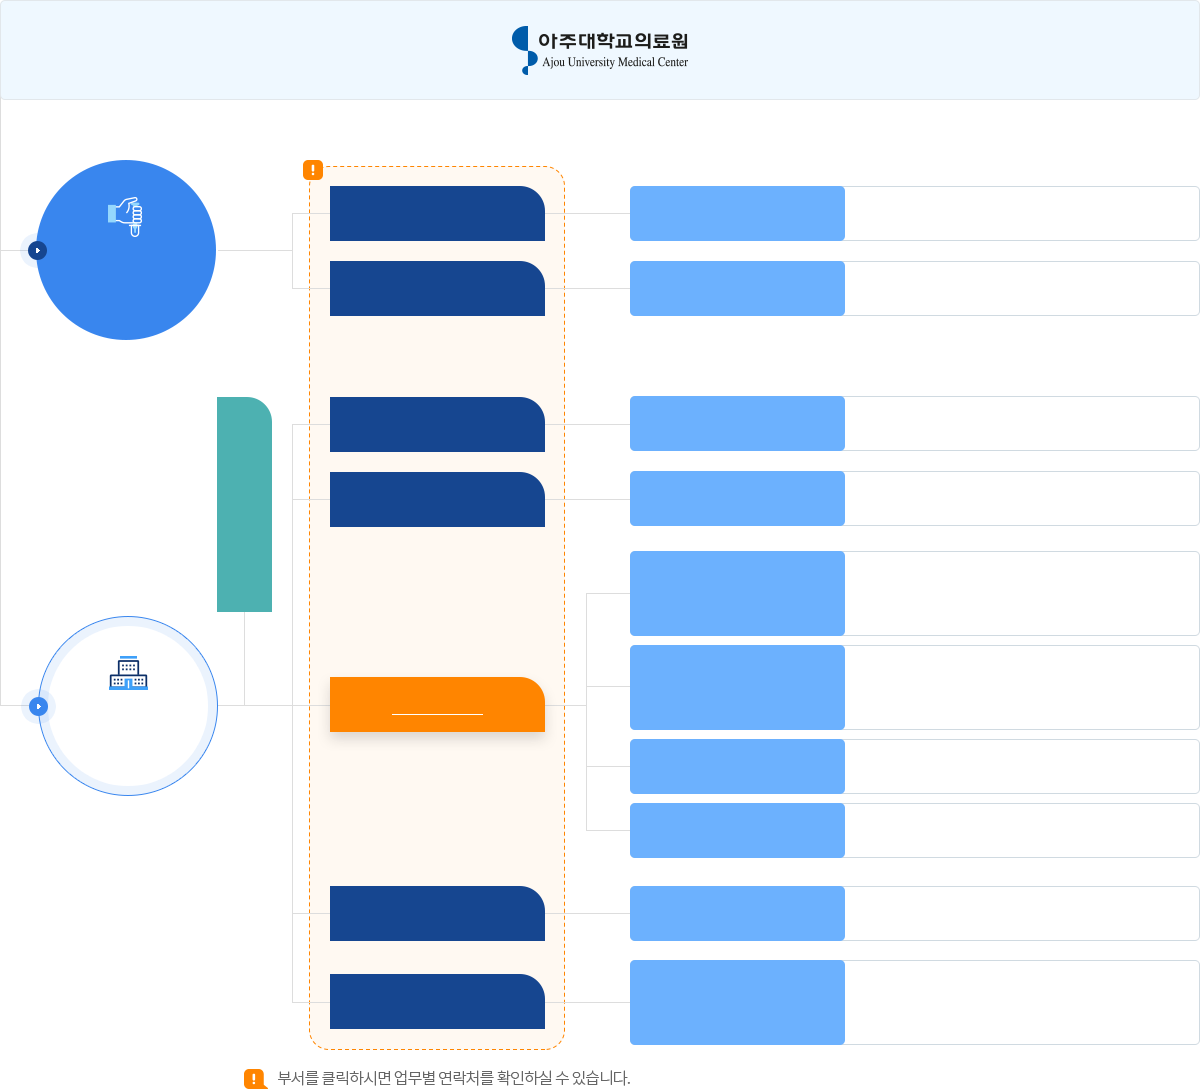
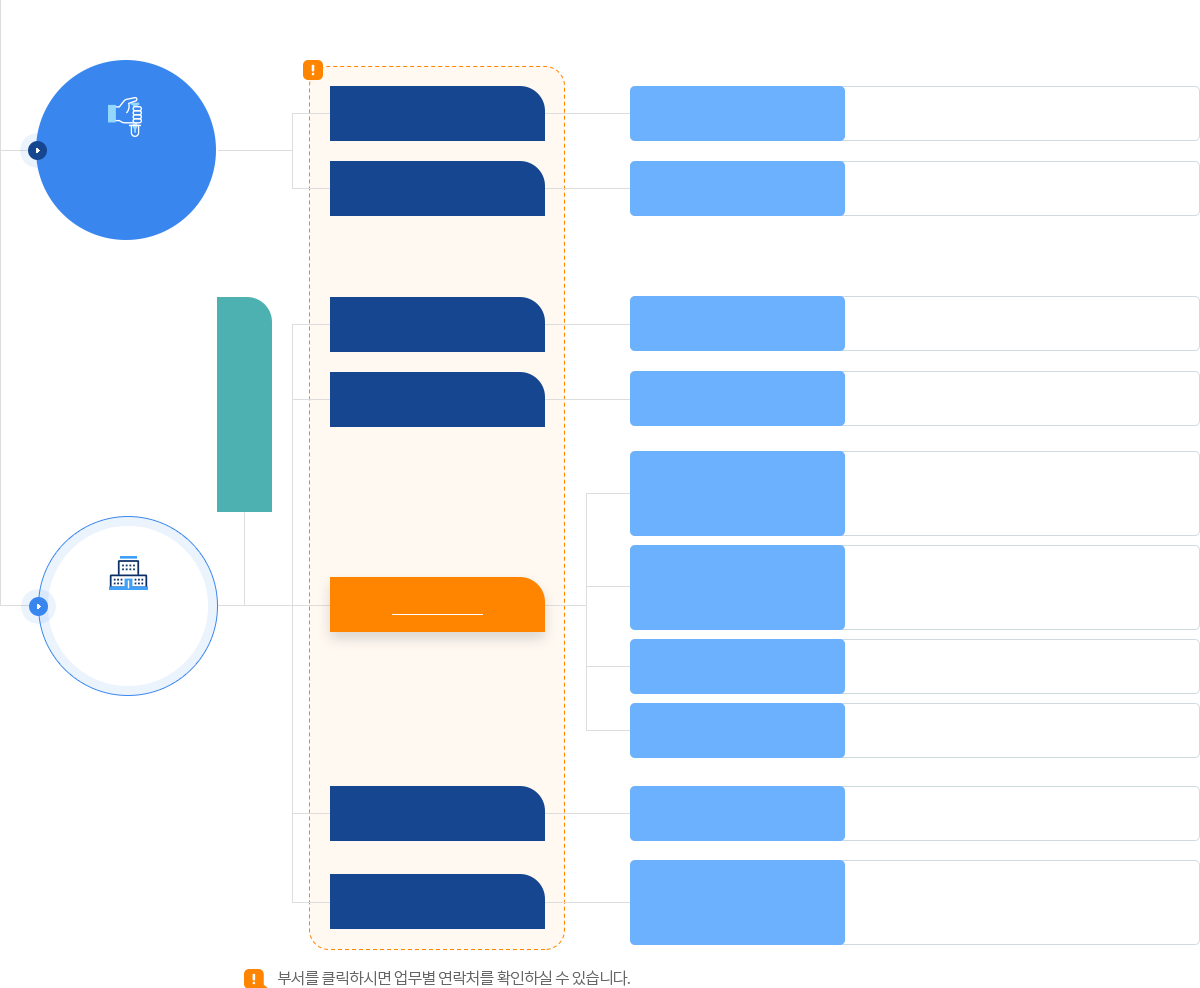
저장

diff --git a/임상시험센터/sub01_05.html b/임상시험센터/sub01_05.html
@@ -108,7 +108,7 @@
                             </ul>
                         </li>
                         <li class="lnb_this">
-                            <a href="javascript:void(0);" class="depth1"><span>성과실적</span></a>
+                            <a href="javascript:void(0);" class="depth1"><span>조직도 및 연락처</span></a>
                             <ul class="lnb_depth2_list" style="display: none">
                                 <li><a href="sub01_01.html">인사말</a></li>
                                 <li><a href="sub01_02.html">비전&미션</a></li>
@@ -131,7 +131,7 @@
                     <div class="in_w">
                         <div class="h2_w">
                             <h2>
-                                <span>성과실적</span>
+                                <span>조직도 및 연락처</span>
                             </h2>
                             <!-- <p class="h2_x"></p> -->
                         </div>
@@ -150,36 +150,35 @@
                         <!-- exp. 좌우 패딩 -->
                         <div class="in_w">
                             <div class="ctrial_wrap2">
-                                <div class="ctrial_con_wrap">
-                                    <h3 class="con_tit">임상시험 승인 건수</h3>
-                                    <div class="ctrial_chart_wrap">
-                                        <div class="chart_label">
-                                            <ul>
-                                                <li><i class="label_color1"></i> SIT</li>
-                                                <li><i class="label_color2"></i> IIT</li>
+                                <div class="ctrial_organ_map">
+                                    <p class="corgan_head">
+                                        <img src="common/images/logo_ajou.png" alt="">
+                                    </p>
+                                    <ul class="corgan_dep1">
+                                        <li>
+                                            <p class="type2"><img src="common/images/sub01_04_icon01.png" alt="연구아이콘">첨단의학<br/>연구원 <i class="icon_arrow_circle_right2 line-left"></i></p>
+                                            <ul class="corgan_dep2">
+                                                <li><p>연구 행정팀 <span class="corgan_tel">02-222-2222</span></p>
+                                                    <ul class="corgan_dep3">
+                                                        <li><p class="dep3_tit">연구지원 연구진흥</p><p class="dep3_desc">임상연구계약 연구비 중앙관리</p></li>
+                                                    </ul>
+                                                </li>
+                                                <li><p>의료기술 사업팀 <span class="corgan_tel">02-222-2222</span></p>
+                                                    <ul class="corgan_dep3">
+                                                        <li><p class="dep3_tit">연구지원 연구진흥</p><p class="dep3_desc">임상연구계약 연구비 중앙관리</p></li>
+                                                    </ul>
+                                                </li>
                                             </ul>
-                                        </div>
-                                        <div class="ctrial_chart_box">
-                                            <img src="common/images/sub01_04_chart01.png" alt="2017-SIT 119, IIT 16/ 2018-SIT 138, IIT 21/ 2019-SIT 139, IIT 17/ 2020-SIT 114, IIT 19/ 2021-SIT 143, IIT 23">
-                                        </div>
-                                    </div>
+                                        </li>
+                                        <li>
+                                            <p><img src="common/images/sub01_04_icon02.png">아주대학교<br/>병원</p>
+                                            <i class="icon_arrow_circle_right1 line-left"></i>
+                                        </li>
+                                    </ul>
                                 </div>
                                 <div class="ctrial_con_wrap">
-                                    <h3 class="con_tit">임상시험 승인 건수</h3>
-                                    <div class="ctrial_chart_wrap">
-                                        <div class="chart_label">
-                                            <ul>
-                                                <li><i class="label_color0"></i> 1상</li>
-                                                <li><i class="label_color1"></i> 2상</li>
-                                                <li><i class="label_color2"></i> 3상</li>
-                                                <li><i class="label_color3"></i> 4상</li>
-                                                <li><i class="label_color4"></i> 기타</li>
-                                            </ul>
-                                        </div>
-                                        <div class="ctrial_chart_box">
-                                            <img src="common/images/sub01_04_chart02.png" alt="2017-1상 2, 2상 22, 3상 42, 4상 8, 기타 60/ 2018-1상 4, 2상 14, 3상 49, 4상 13, 기타 79/ 2019-1상 4, 2상 26, 3상 52, 4상 5, 기타 69/ 2020-1상 11, 2상 22, 3상 38, 4상 9, 기타 53/ 2021-1상 5, 2상 20, 3상 46, 4상 8, 기타 78">
-                                        </div>
-                                    </div>
+                                    <h3 class="con_tit">업무별 연락처</h3>
+
                                 </div>
                             </div>
                         </div>

diff --git a/임상시험센터/common/css/sub_crinic_trial.css b/임상시험센터/common/css/sub_crinic_trial.css
@@ -18,7 +18,19 @@
 .icon_arrow_circle_down2 { background-color: #4db1b1; box-shadow: 0 0 0 8px rgba(77,177,177,0.1); }
 [class*=icon_arrow_circle_down].line-top { position: relative; }
 [class*=icon_arrow_circle_down].line-top:after { content:''; display: block; position: absolute; background: #dddddd; height: 87px; width: 1px; bottom:100%; left: 50%; margin-left: -1px;}
+[class*=icon_arrow_circle_right] {display: inline-block; width: 19px; height: 19px; background: #3986ee url(../images/icon_arrow_right1.png) no-repeat  8px center; border-radius: 50%; box-shadow: 0 0 0 8px rgba(57,134,238,0.1);}
+[class*=icon_arrow_circle_right].line-left { position: relative; }
+[class*=icon_arrow_circle_right].line-left:after{ content:''; display: block; position: absolute; background: #dddddd; height: 1px; width: 28px; right:100%; top: 50%; margin-top: -1px;}
+.icon_arrow_circle_right1 { background-color: #3986ee; }
+.icon_arrow_circle_right2 { background-color: #164690; box-shadow: 0 0 0 8px rgba(77,177,177,0.1); }
 
+
+.ctrial_con_wrap ~ .ctrial_con_wrap { 
+  margin-top: 4rem; 
+ }
+.ctrial_con_wrap h3.con_tit { 
+  font-size: 1.75rem; font-weight: 600; background: url(../images/h3_icon.png) no-repeat left 0.5rem; padding-left: 2.3rem; margin-bottom: 1.5rem; 
+}
 .ctrial_intro_wrap .inner_flex {
   border-bottom: 2px solid #38496b;
   margin-bottom: 3rem;
@@ -344,6 +356,164 @@
 .ctrial_history_box .history_item_list > li ~ li  { 
   margin-top: 0.4rem; 
 }
+.ctrial_chart_wrap{ 
+  position: relative; 
+}
+.ctrial_chart_wrap .chart_label { 
+  position: absolute;
+  right:0;
+  top:-3.5rem;
+  color: #444444;
+}
+.ctrial_chart_wrap .chart_label li { 
+  margin-left: 15px;;
+}
+.ctrial_chart_wrap .chart_label i { 
+  display: inline-block;
+  border-radius: 4px; width: 30px;
+  height: 16px;
+  background: #96a3bd;
+  vertical-align: middle;
+  margin-right: 5px;
+}
+.ctrial_chart_wrap .chart_label i.label_color0 { background: #38b4fa; }
+.ctrial_chart_wrap .chart_label i.label_color1 { background: #3986ee; }
+.ctrial_chart_wrap .chart_label i.label_color2 { background: #4db1b1; }
+.ctrial_chart_wrap .chart_label i.label_color3 { background: #164690; }
+.ctrial_chart_box { overflow-x: auto;}
+.ctrial_chart_box img { min-width: 800px }
+.corgan_head { 
+  background: #eff8ff;
+  border:1px solid #e2e7eb;
+  border-radius: 5px;
+  height: 100px;
+  display: flex;
+  align-items: center;
+  justify-content: center;
+}
+.corgan_dep1 {   }
+.corgan_dep1 > li { 
+  display: flex;
+  position: relative;
+  padding: 60px 0 0 35px;
+  gap: 75px;
+  align-items: center;
+}
+.corgan_dep1 > li:before {
+  content:'';
+  position: absolute;
+  display: block;
+  width: 1px;
+  left: 0;
+  top:0;
+  bottom:0;
+  background: #dddddd;
+}
+.corgan_dep1 > li > p {
+  position: relative; 
+  width: 180px;
+  height: 180px;
+  border-radius: 50%;
+  box-sizing: border-box;
+  background: #fff;
+  border: 1px solid #3986ee;
+  color: #164690;
+  font-size: 1.375rem; font-weight: 700;
+  display: flex;
+  flex-direction: column;
+  align-items: center;
+  justify-content: center;
+  text-align: center;
+  gap: 0.5rem;
+}
+
+.corgan_dep1 > li > p [class*=icon_arrow] { 
+  top:50%; right: 100%;
+  position: absolute;
+  margin:-10px -10px 0 0;
+}
+.corgan_dep1 > li > p.type2 { 
+  background: #3986ee;
+  color: #fff; font-weight: 500;
+}
+.corgan_dep2 { 
+  position: relative;
+  padding-left: 35px;
+}
+.corgan_dep2:after {
+  content:'';
+  position: absolute;
+  display: block;
+  width: 75px;
+  height: 1px;
+  background: #dddddd;
+  left:-75px;
+  top:50%;
+}
+.corgan_dep2 > li { 
+  position: relative;
+  display: flex; gap: 85px;
+  padding: 10px 0;
+}
+.corgan_dep2 > li:before {
+  content:'';
+  position: absolute;
+  display: block;
+  width: 35px;
+  height: 1px;
+  background: #dddddd;
+  left:-35px;
+  top:50%;
+}
+.corgan_dep2 > li:after { 
+  content:'';
+  position: absolute;
+  display: block;
+  width: 1px;
+  height: 100%;
+  background: #dddddd;
+  left:-35px;
+  top:0;
+}
+.corgan_dep2 > li:first-child:after { 
+  top:50%;
+  height: 50%;
+}
+.corgan_dep2 > li:last-child:after { 
+  top:0%;
+  height: 50%;
+}
+.corgan_dep2 > li > p { 
+  position: relative;
+  color: #fff;
+  font-size: 1.06rem; 
+  font-weight: 500;
+  background: #164690;
+  width: 215px;
+  height: 55px;
+  line-height: 54px;
+  text-align: center;
+  border-radius: 0 25px 0 0;
+}
+.corgan_dep2 > li > p .corgan_tel { 
+  display: none; 
+  border: 1px solid #d0dae1; 
+  border-radius: 4px;
+  padding: 8px 10px; background: #fff;
+  font-size: 0.8rem;
+  box-shadow: 2px 2px 5px rgba(0,0,0,0.3);
+  white-space: nowrap;
+  background: #fff;
+  color: #000;
+  line-height: 1;
+}
+.corgan_dep2 > li > p:hover .corgan_tel { 
+  display: block;
+  position: absolute;
+  top: 70%; 
+  left: 50%;
+  z-index: 1;
+}
 
 @media ( max-width:1200px){  
   .medi_science_map { zoom: 0.9; }
@@ -384,12 +554,21 @@
     font-size: 2.2rem;
   }
   .ctrial_history_box .history_list > li { gap: 0.8rem; }
+
+  .ctrial_chart_wrap .chart_label {
+    position: static; 
+    text-align: right;
+    margin-bottom: 1rem; 
+  }
+
   
 }
 @media (max-width: 900px){ 
 
 }
 @media (max-width:800px){
+  
+  .ctrial_con_wrap .con_tit { font-size: 1.5rem;}
   .ctrial_intro_wrap .inner_flex { 
     flex-wrap: wrap; 
   }
